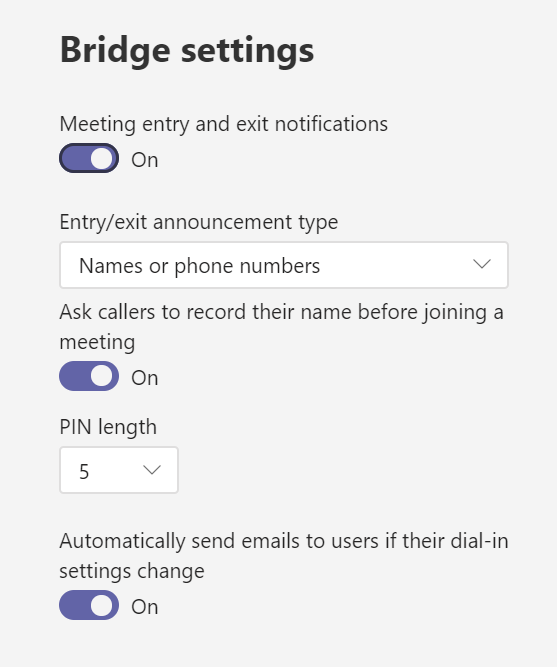
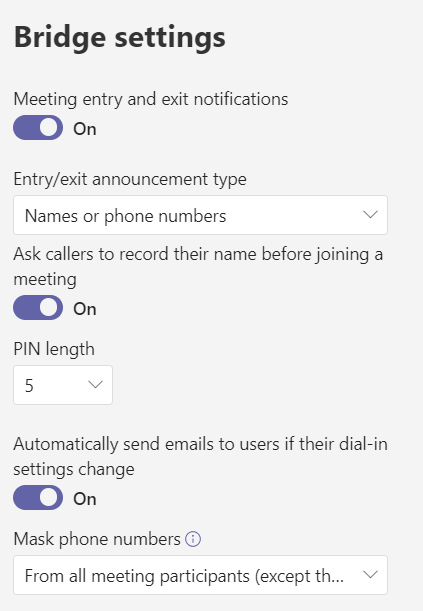
changed files by pdets auto publish service, publishid[5c0932d4-e63e-4a1d-be2e-76e948a623b7] and do [publish].

diff --git a/learn-m365-pr/wwl/manage-meetings-virtual-events-experiences/includes/05-configure-audio-conferencing.md b/learn-m365-pr/wwl/manage-meetings-virtual-events-experiences/includes/05-configure-audio-conferencing.md
@@ -132,11 +132,20 @@ Conference bridge settings allow organizations to change the settings for meetin
 
 	- **Meeting entry and exit notifications**. An organization can turn this setting On or Off, depending on whether it wants users who have already joined the meeting to be notified when someone enters or leaves the meeting. If this setting is turned On, the following options can be updated:
 	- **Entry/exit announcement type**. Select one of the following options:
-		- **Names or phone numbers**: When users dial in to a meeting, their phone number will be played when they join it.
+
 		- **Tones**: When users dial in to a meeting, an audio tone will be played when they join it.
-	- **Ask callers to record their name before joining the meeting**. If you turn this setting Off, callers won't be asked to record their name before they join a meeting.
+		
+		- **Names or phone numbers**: When users dial in to a meeting, their phone number will be played when they join it. If you select this option, you will decide whether to **Ask callers to record their name before joining the meeting**. If you turn this setting Off, callers won't be asked to record their name before they join a meeting.
+
 	- **Pin length**. Set the PIN length from 4 to 12; the default value is 5.
 	- **Automatically send emails to users if their dial-in settings change**. This option should be enabled or disabled.
+
+	- **Mask phone numbers**. Admins can choose how the audio conferencing participants' phone numbers appear in meetings that are organized in their tenant. The admins can choose from three options: 
+
+		* **From participants outside your organization**: Phone numbers are masked only from external participants. The participants who belong to the meeting organizer's tenant still see the full phone number.
+		* **From all meeting participants(except the organizer)**: Phone numbers are masked from everyone in the meeting except the organizer.
+		* **Turned off**: Phone numbers are unmasked, which makes them visible to everyone in the meeting.
+
 
 3. Select **Apply** to confirm the settings.
 
@@ -144,9 +153,14 @@ Organizations can also use PowerShell to update these settings by using the ```S
 
 :::image type="content" source="../media/conference-bridges.png" alt-text="Screenshot of Conference Bridges settings.":::
 
-## Assign dial-in phone numbers for users who lead meetings
+## Manage dial-in phone numbers for users
 
-After an organization has created an Audio Conferencing bridge, it must complete the following steps to set the toll and toll-free numbers for all users who lead or schedule meetings:
+After an organization has created an Audio Conferencing bridge, admins can manage dial-in phone numbers for users who lead meetings with following options:
+
+1. Edit Audio Conferencing setting for a user
+2. Configure Audio conferencing policies for users
+
+### Audio Conferencing setting
 
 1. From the Teams admin center, select **Users** > **Manage users**, select the user from the list.
 2. Select **Edit** next to **Audio Conferencing**, and then in the Audio Conferencing pane, choose a number in the Toll number and Toll-free number lists.
@@ -154,4 +168,19 @@ After an organization has created an Audio Conferencing bridge, it must complete
 
 	:::image type="content" source="../media/assign-user-conference-bridges.png" alt-text="Screenshot of Assign dial-in phone numbers for users.":::
 
+### Configure Audio conferencing policies
 
+Admins can use Audio conferencing policies to manage audio conferencing toll and toll-free numbers to be displayed in meeting invites created by users.
+
+You can use the Global (Org-wide) default policy or create custom policies. To create a new Audio conferencing policy:
+
+1. From the Teams admin center, select **Meetings** > **Audio conferencing**.
+2. Select **+ Add** and configure the settings that you want.
+3. Select **Save**.
+
+	:::image type="content" source="../media/audio-conference-policy.png" alt-text="Screenshot of creating a new Audio conferencing policy.":::
+
+Then, you can assign the policy directly to users or to a group that the users are members of, either individually or in larger numbers through a batch assignment. 
+
+> [!NOTE]
+> It can take up to 24 hours for the assigned phone numbers to show up on users' meeting invite. 
